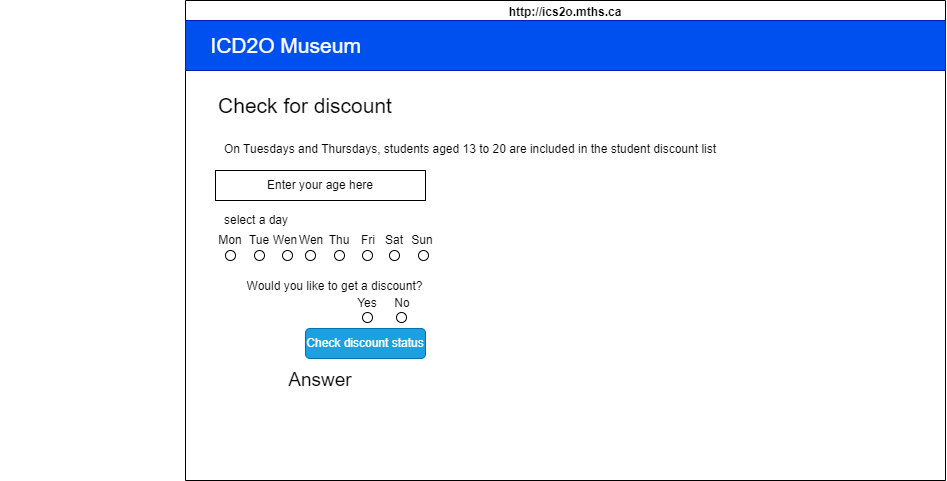
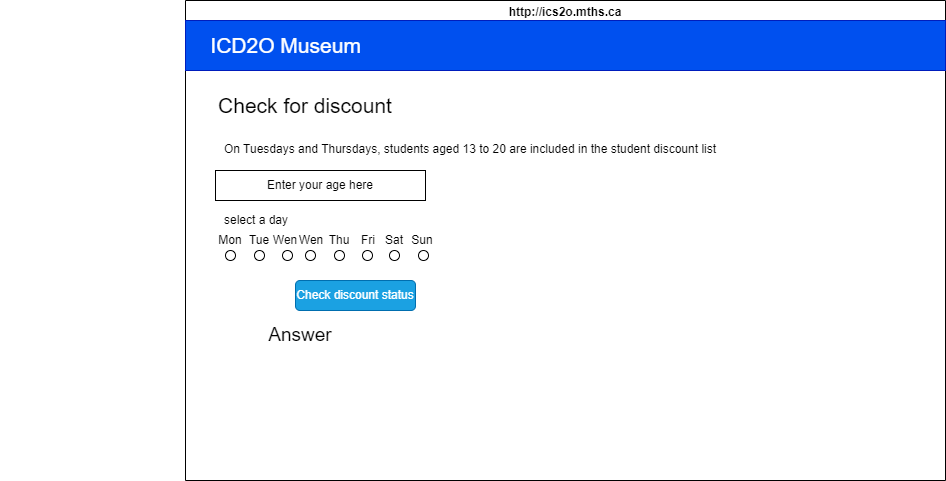
debuged

diff --git a/js/script.js b/js/script.js
@@ -4,14 +4,14 @@
 // Created on: Apr 2024
 // This file contains the JS functions for index.html
 function ShowAnswer() {
+  "use strict"
   const userage = document.getElementById("get_age").value
   const Tuesday = document.getElementById("option-2").checked
   const Thursday = document.getElementById("option-4").checked
-  const discount = document.getElementById("option-discount1").checked
   //get user's answer
-  if ((userage > 12 && userage < 21) || (Tuesday == 1 || Thursday == 1) && (discount == 1)) {
+  if ((userage > 12 && userage < 21) || (Tuesday == 1 || Thursday == 1)) {
     document.getElementById("TheAnswer").innerHTML = "You can get a discount today!"
   }else {
-    document.getElementById("TheAnswer").innerHTML = "There is no ticket discount today or you are not eligible."
+    document.getElementById("TheAnswer").innerHTML = "There is no ticket discount today."
   }
 }

diff --git a/index.html b/index.html
@@ -59,16 +59,6 @@
             <span class="mdl-radio__label">Sun</span>
           </label>
         </div>
-        <div>
-          <label class="mdl-radio mdl-js-radio mdl-js-ripple-effect" for="option-discount1">
-            <input type="radio" id="option-discount1" class="mdl-radio__button" name="options-discount" value="1">
-            <span class="mdl-radio__label">Yes</span>
-          </label>
-          <label class="mdl-radio mdl-js-radio mdl-js-ripple-effect" for="option-discount2">
-            <input type="radio" id="option-discount2" class="mdl-radio__button" name="options-discount" value="2">
-            <span class="mdl-radio__label">No</span>
-          </label>
-        </div>
         <button class="mdl-button mdl-js-button mdl-button--raised mdl-js-ripple-effect mdl-button--accent"
           onclick="ShowAnswer()">
           Check discount status
